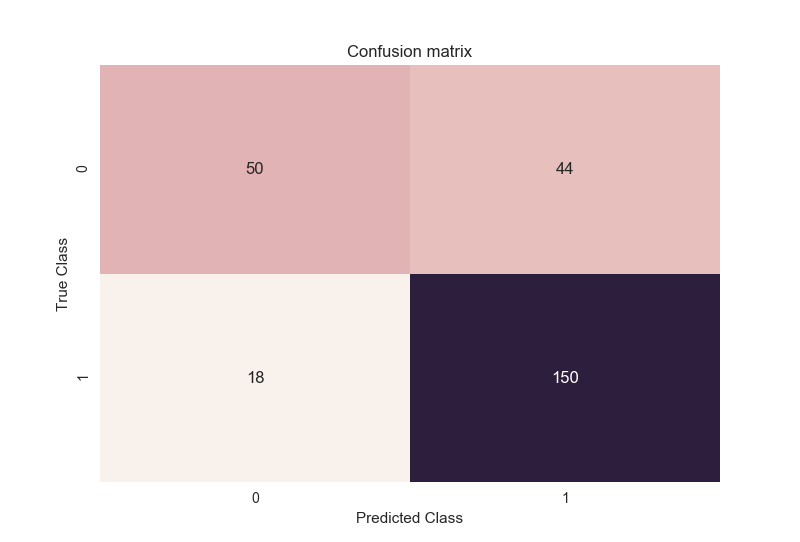
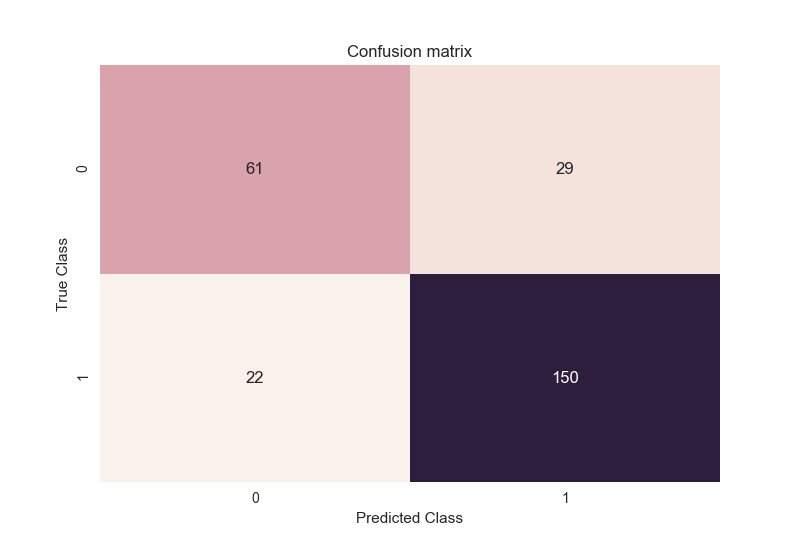
More plots

Changed region(s): [[0.5, 0.1181, 0.9062, 0.5314], [0.3125, 0.679, 0.3438, 0.7085], [0.3125, 0.2952, 0.3438, 0.3247]]

diff --git a/Classifier.py b/Classifier.py
@@ -304,15 +304,16 @@ if __name__ == '__main__':
 
 
 	######################################## Normalising Data ####################################
-	normalizer = Preprocessing.Normalise()
-	inputDataClass.Train = np.hstack((normalizer.scale(inputDataClass.Train[:,:-1],train=True),inputDataClass.Train[:,-1].reshape(-1,1)))
-	inputDataClass.Test = np.hstack((normalizer.scale(inputDataClass.Test[:,:-1],train=False),inputDataClass.Test[:,-1].reshape(-1,1)))
+	# normalizer = Preprocessing.Normalise()
+	# inputDataClass.Train = np.hstack((normalizer.scale(inputDataClass.Train[:,:-1],train=True),inputDataClass.Train[:,-1].reshape(-1,1)))
+	# inputDataClass.Test = np.hstack((normalizer.scale(inputDataClass.Test[:,:-1],train=False),inputDataClass.Test[:,-1].reshape(-1,1)))
 
 
 	##############################################################################################
 
 	performanceAnalyser = performanceAnalyser.PerformanceCheck()
-	# Visualization.visualizeDataCCD(np.vstack((inputDataClass.Train,inputDataClass.Test)))
+	Visualization.visualizeDataCCD(np.vstack((inputDataClass.Train,inputDataClass.Test)))
+	exit()
 
 	# correlation_dict = performanceAnalyser.getCorrelationMatrix(inputDataClass.Train)
 	# Visualization.visualizeCorrelation(correlation_dict)
@@ -323,17 +324,17 @@ if __name__ == '__main__':
 	"""################################# Bayes Classifier #############################################"""
 
 	# #Sklearn
-	# print("\nSklearn Naive Bayes")
-	# clf = GaussianNB()
-	# clf.fit(inputDataClass.Train[:,:-1], inputDataClass.Train[:,-1])
+	print("\nSklearn Naive Bayes")
+	clf = GaussianNB()
+	clf.fit(inputDataClass.Train[:,:-1], inputDataClass.Train[:,-1])
 
-	# Ypred = clf.predict(inputDataClass.Train[:,:-1])
-	# Ytrue = inputDataClass.Train[:,-1]
-	# print("Training Accuracy = "+str(performanceAnalyser.calcAccuracyTotal(Ypred,Ytrue)))
+	Ypred = clf.predict(inputDataClass.Train[:,:-1])
+	Ytrue = inputDataClass.Train[:,-1]
+	print("Training Accuracy = "+str(performanceAnalyser.calcAccuracyTotal(Ypred,Ytrue)))
 
-	# Ypred = clf.predict(inputDataClass.Test[:,:-1])
-	# Ytrue = inputDataClass.Test[:,-1]
-	# print("Testing Accuracy = "+str(performanceAnalyser.calcAccuracyTotal(Ypred,Ytrue)))
+	Ypred = clf.predict(inputDataClass.Test[:,:-1])
+	Ytrue = inputDataClass.Test[:,-1]
+	print("Testing Accuracy = "+str(performanceAnalyser.calcAccuracyTotal(Ypred,Ytrue)))
 
 
 	print("\nMy Naive Bayes")

diff --git a/Visualization.py b/Visualization.py
@@ -9,6 +9,8 @@ from cycler import cycler
 sns.set(color_codes=True)
 
 def visualiseCCD(X,c,i):
+	# print(X.shape)
+	# X = X.astype(np.float64)
 	sns.distplot(X);
 	plt.title("CCD for class "+str(c)+" and feature "+str(i))
 	plt.show()
@@ -33,9 +35,11 @@ def visualizeDataCCD(X):
 
 	for label in sliced_matrix:
 		mat = sliced_matrix[label]
-		for i in range(mat.shape[1]):
-			# print(i)
-			visualiseCCD(mat[:,i],label,i)
+		# for i in range(mat.shape[1]):
+		# 	print(i)
+		# 	visualiseCCD(mat[:,i],label,i)
+		visualiseCCD(mat[:,0],label,0)
+
 
 def visualizeConfusion(X):
 	ax = sns.heatmap(X, annot=True, fmt="d", cbar = False)
